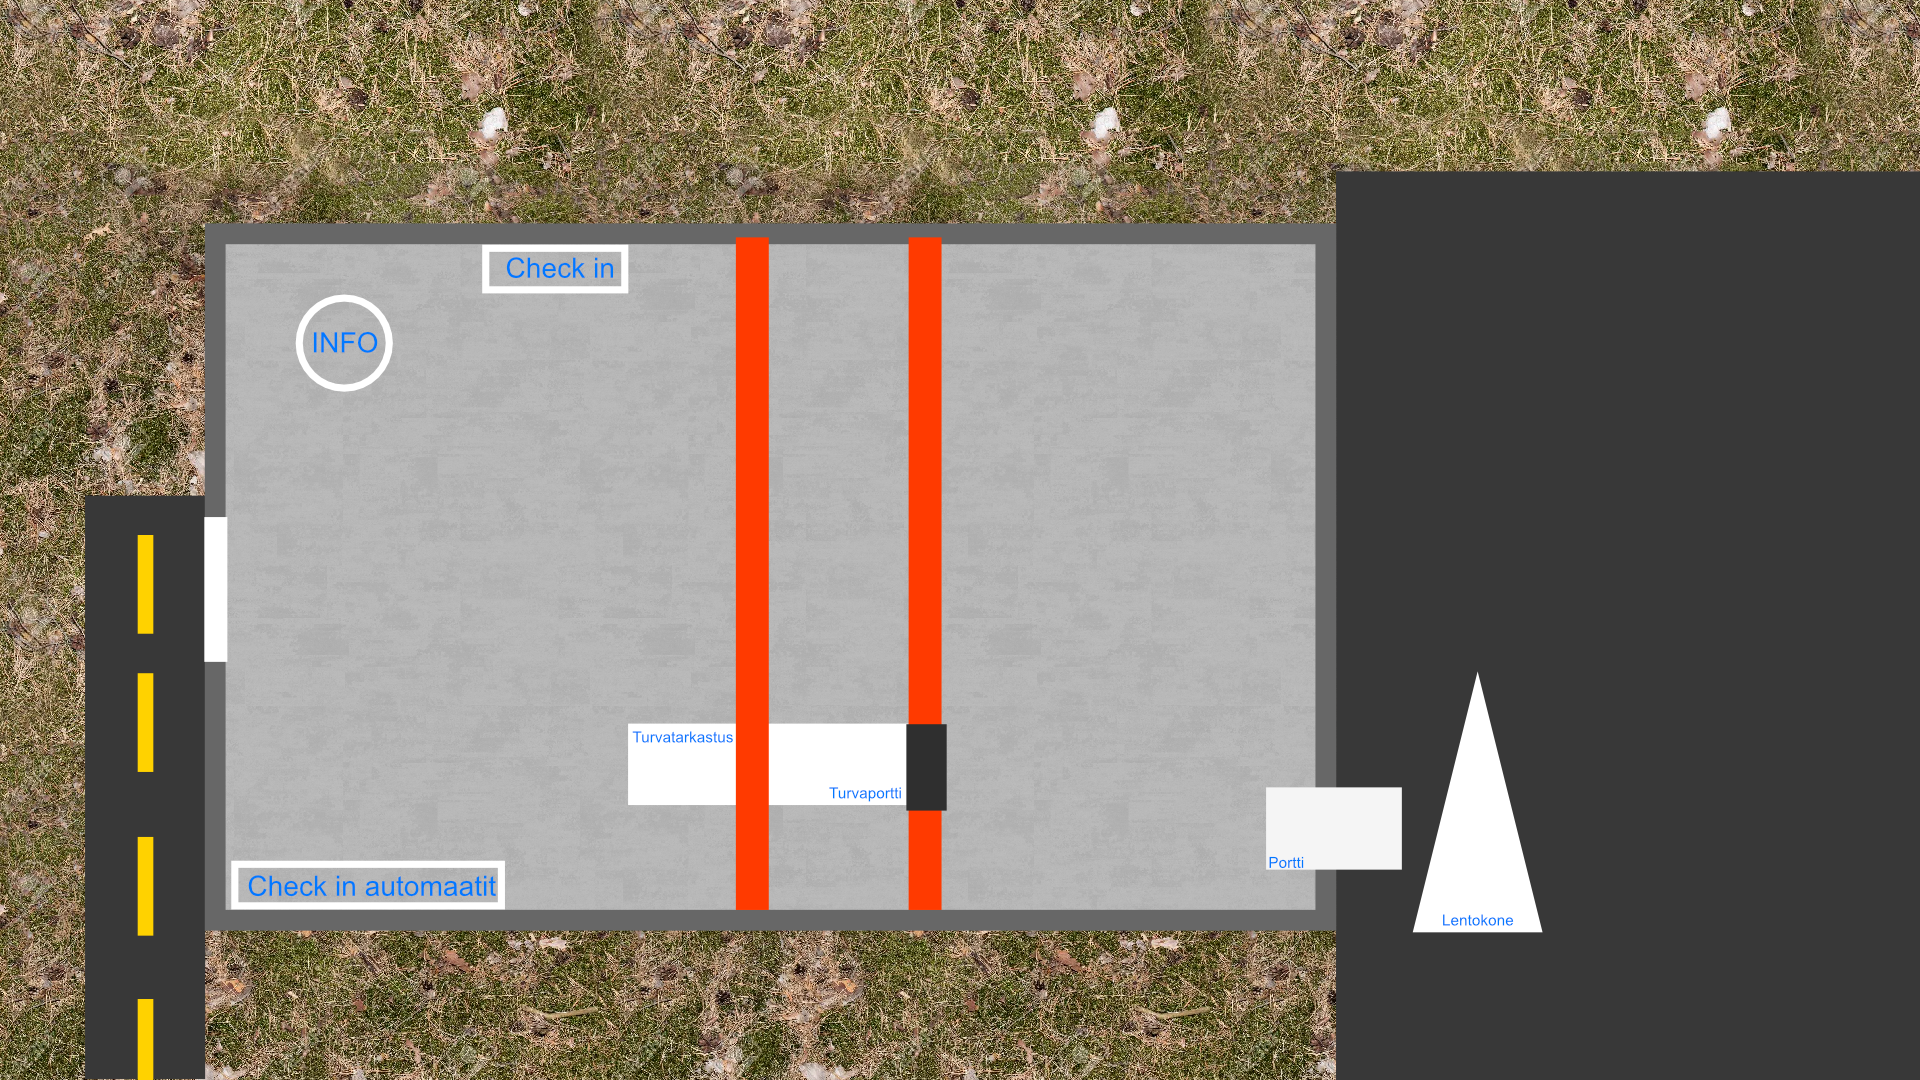
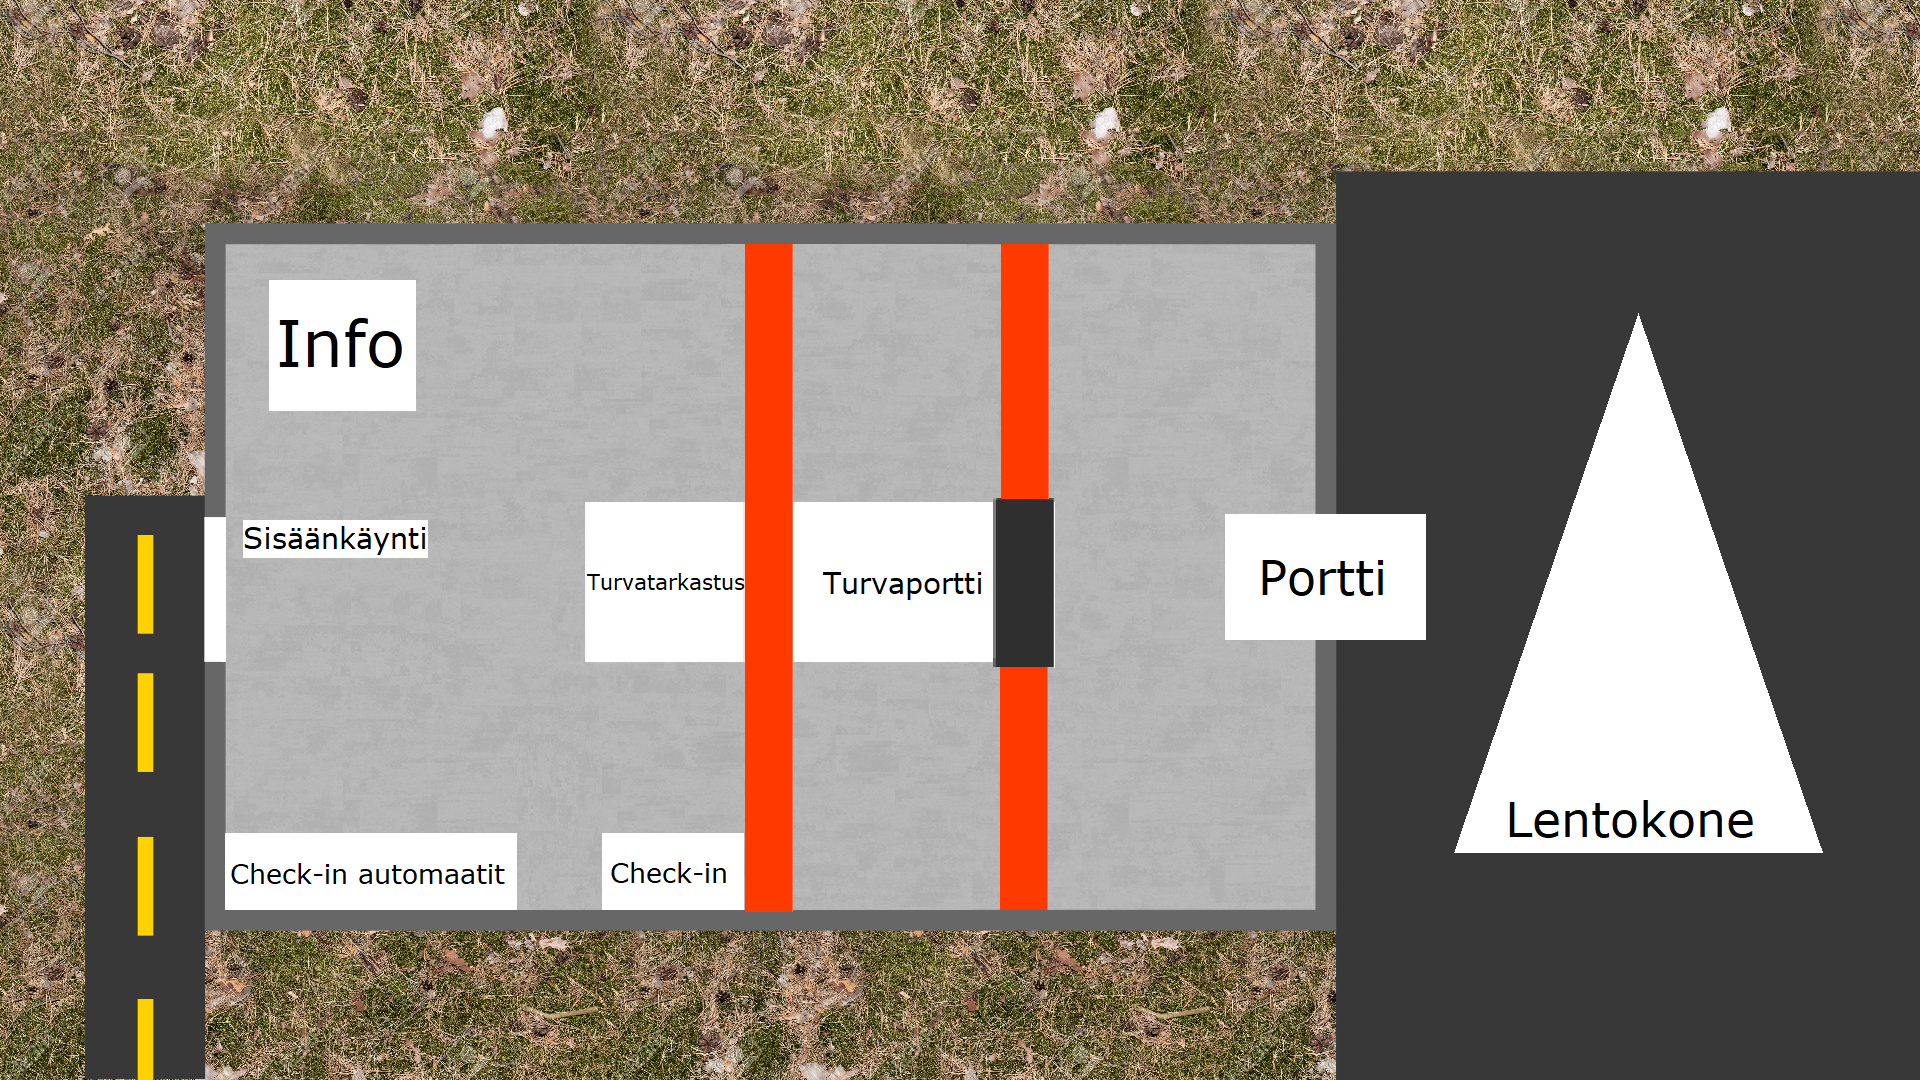
Uusi kuva ja fontit (koordinaatit vaihdettu)

diff --git a/src/view/style.css b/src/view/style.css
@@ -1,16 +1,23 @@
+@import url('https://fonts.googleapis.com/css2?family=Merriweather+Sans&family=Work+Sans&display=swap');
+
 .button {
     -fx-background-color: #C5D1EB;
+    -fx-font-family: 'Work Sans'; 
+    -fx-font-size: 20;
 }
 
-.root{
-	    -fx-background-color: #5A7684;
-	
+.root {
+	-fx-background-color: #5A7684;	
 }
 
 .text-field {
 	-fx-text-fill:  black;
+	-fx-font-family: 'Work Sans';
+	-fx-font-size: 20;
 }
 
 .label {
     -fx-text-fill: #0D1F2D;
+    -fx-font-family: 'Merriweather Sans'; 
+    -fx-font-size: 20;
 }

diff --git a/src/view/SimulaattorinGUI.java b/src/view/SimulaattorinGUI.java
@@ -105,7 +105,6 @@ public class SimulaattorinGUI extends Application implements ISimulaattorinUI{
 
 			kaynnistaButton = new Button();
 			kaynnistaButton.setText("Käynnistä simulointi");
-			kaynnistaButton.setFont(Font.font("Tahoma", FontWeight.BOLD, 20));
 
 			kaynnistaButton.setOnAction(new EventHandler<ActionEvent>() {
 	            @Override
@@ -119,7 +118,6 @@ public class SimulaattorinGUI extends Application implements ISimulaattorinUI{
 
 			Button uus = new Button();
 			uus.setText("Historia");
-			uus.setFont(Font.font("Tahoma", FontWeight.BOLD, 20));
 
 			uus.setOnAction(new EventHandler<ActionEvent>() {
 	            @Override
@@ -162,7 +160,6 @@ public class SimulaattorinGUI extends Application implements ISimulaattorinUI{
 
 			Button tallenna = new Button();
 			tallenna.setText("Tallenna");
-			tallenna.setFont(Font.font("Tahoma", FontWeight.BOLD, 20));
 
 			tallenna.setOnAction(e -> kontrolleri.tallennaTulokset(loppuaika, asiakasmaara, checkaktiiviaika, turvatarkastus, oleskeluaikaturvatarkastus, checkinkayttoaste, lentokentanteho, checkinpalveluaika, turvatarkastusjono, turvatarkastusjononpituus));
 
@@ -170,88 +167,62 @@ public class SimulaattorinGUI extends Application implements ISimulaattorinUI{
 
 			hidastaButton = new Button();
 			hidastaButton.setText("Hidasta");
-			hidastaButton.setFont(Font.font("Tahoma", FontWeight.BOLD, 20));
 
 			hidastaButton.setOnAction(e -> kontrolleri.hidasta());
 
 			nopeutaButton = new Button();
 			nopeutaButton.setText("Nopeuta");
-			nopeutaButton.setFont(Font.font("Tahoma", FontWeight.BOLD, 20));
 
 			nopeutaButton.setOnAction(e -> kontrolleri.nopeuta());
 
 			aikaLabel = new Label("Simulointiaika:");
 
 
-			aikaLabel.setFont(Font.font("Tahoma", FontWeight.BOLD, 20));
 	        aika = new TextField("Syötä aika");
-	        aika.setFont(Font.font("Tahoma", FontWeight.BOLD, 20));
 	        aika.setPrefWidth(150);
 
 	        viiveLabel = new Label("Viive:");
-			viiveLabel.setFont(Font.font("Tahoma", FontWeight.BOLD, 20));
 	        viive = new TextField("Syötä viive");
-	        viive.setFont(Font.font("Tahoma", FontWeight.BOLD, 20));
 	        viive.setPrefWidth(150);
 
 	        tulosLabel = new Label("Kokonaisaika:");
-			tulosLabel.setFont(Font.font("Tahoma", FontWeight.BOLD, 20));
 	        tulos = new Label();
-	        tulos.setFont(Font.font("Tahoma", FontWeight.BOLD, 20));
 	        tulos.setPrefWidth(150);
 
 	        tulosLabel2 = new Label("Asiakas määrä:");
-			tulosLabel2.setFont(Font.font("Tahoma", FontWeight.BOLD, 20));
 	        tulos2 = new Label();
-	        tulos2.setFont(Font.font("Tahoma", FontWeight.BOLD, 20));
 	        tulos2.setPrefWidth(150);
 
 	        tulosLabel3 = new Label("Check-in aktiiviaika:");
-			tulosLabel3.setFont(Font.font("Tahoma", FontWeight.BOLD, 20));
 	        tulos3 = new Label();
-	        tulos3.setFont(Font.font("Tahoma", FontWeight.BOLD, 20));
 	        tulos3.setPrefWidth(150);
 
 	        tulosLabel4 = new Label("Turvatarkastuksen läpimenoaika:");
-			tulosLabel4.setFont(Font.font("Tahoma", FontWeight.BOLD, 20));
 	        tulos4 = new Label();
-	        tulos4.setFont(Font.font("Tahoma", FontWeight.BOLD, 20));
 	        tulos4.setPrefWidth(150);
 
 	        tulosLabel5 = new Label("Turvatarkastuksen oleskeluaika:");
-			tulosLabel5.setFont(Font.font("Tahoma", FontWeight.BOLD, 20));
 	        tulos5 = new Label();
-	        tulos5.setFont(Font.font("Tahoma", FontWeight.BOLD, 20));
 	        tulos5.setPrefWidth(150);
 
 	        tulosLabel6 = new Label("Check-in käyttöaste:");
-			tulosLabel6.setFont(Font.font("Tahoma", FontWeight.BOLD, 20));
 	        tulos6 = new Label();
-	        tulos6.setFont(Font.font("Tahoma", FontWeight.BOLD, 20));
 	        tulos6.setPrefWidth(150);
 
 	        tulosLabel7 = new Label("Lentokentän suoritusteho:");
-			tulosLabel7.setFont(Font.font("Tahoma", FontWeight.BOLD, 20));
 	        tulos7 = new Label();
-	        tulos7.setFont(Font.font("Tahoma", FontWeight.BOLD, 20));
 	        tulos7.setPrefWidth(150);
 
 	        tulosLabel8 = new Label("Check-in keskimääräinen palveluaika:");
-			tulosLabel8.setFont(Font.font("Tahoma", FontWeight.BOLD, 20));
 	        tulos8 = new Label();
-	        tulos8.setFont(Font.font("Tahoma", FontWeight.BOLD, 20));
 	        tulos8.setPrefWidth(150);
 
 	        tulosLabel9 = new Label("Turvatarkastuksen keskimääräinen läpimenoaika:");
-			tulosLabel9.setFont(Font.font("Tahoma", FontWeight.BOLD, 20));
 	        tulos9 = new Label();
-	        tulos9.setFont(Font.font("Tahoma", FontWeight.BOLD, 20));
 	        tulos9.setPrefWidth(150);
 
 	        tulosLabel10 = new Label("Turvatarkastuksen keskimääräinen jononpituus:");
-			tulosLabel10.setFont(Font.font("Tahoma", FontWeight.BOLD, 20));
 	        tulos10 = new Label();
-	        tulos10.setFont(Font.font("Tahoma", FontWeight.BOLD, 20));
 	        tulos10.setPrefWidth(150);
 
 	        HBox hBox = new HBox();

diff --git a/src/view/Visualisointi.java b/src/view/Visualisointi.java
@@ -23,14 +23,14 @@ public class Visualisointi extends Canvas implements IVisualisointi{
 		super(w, h);
 		gc = this.getGraphicsContext2D();
 		pisteet = new Piste[8];
-		pisteet[0] = new Piste(120, 450, TapahtumanTyyppi.ENTRANCE);
-		pisteet[1] = new Piste(175, 285, TapahtumanTyyppi.INFO);
-		pisteet[2] = new Piste(190, 735, TapahtumanTyyppi.CHECKINAUTO);
-		pisteet[3] = new Piste(290, 225, TapahtumanTyyppi.CHECKINMANUAL);
-		pisteet[4] = new Piste(355, 615, TapahtumanTyyppi.SECURITY);
-		pisteet[5] = new Piste(475, 640, TapahtumanTyyppi.SECURITYGATE);
-		pisteet[6] = new Piste(690, 690, TapahtumanTyyppi.GATE);
-		pisteet[7] = new Piste(770, 750, TapahtumanTyyppi.PLANE);
+		pisteet[0] = new Piste(150, 500, TapahtumanTyyppi.ENTRANCE);
+		pisteet[1] = new Piste(190, 300, TapahtumanTyyppi.INFO);
+		pisteet[2] = new Piste(200, 695, TapahtumanTyyppi.CHECKINAUTO);
+		pisteet[3] = new Piste(330, 695, TapahtumanTyyppi.CHECKINMANUAL);
+		pisteet[4] = new Piste(365, 520, TapahtumanTyyppi.SECURITY);
+		pisteet[5] = new Piste(475, 520, TapahtumanTyyppi.SECURITYGATE);
+		pisteet[6] = new Piste(695, 520, TapahtumanTyyppi.GATE);
+		pisteet[7] = new Piste(880, 520, TapahtumanTyyppi.PLANE);
 		tyhjennaNaytto();
 	}
 	

diff --git a/src/simu/model/OmaMoottori.java b/src/simu/model/OmaMoottori.java
@@ -152,10 +152,6 @@ public class OmaMoottori extends Moottori{
 		kontrolleri.turvatarkastusJononPituus(R);
 
 	}
-	
-	public double getT() {
-		return T;
-	}
 
 	public int getC() {
 		return C;
@@ -191,10 +187,6 @@ public class OmaMoottori extends Moottori{
 
 	public double getR() {
 		return R;
-	}
-	
-	public void setT(double T) {
-		this.T = T;
 	}
 
 	public void setC(int C){
@@ -242,7 +234,7 @@ public class OmaMoottori extends Moottori{
 	public void setCheckinJakauma(double jakauma) {
 		checkinJakauma = jakauma;
 	}
-	
+
 	public Palvelupisteryhma[] getPalvelupisteet() {
 		return palvelupisteet;
 	}
